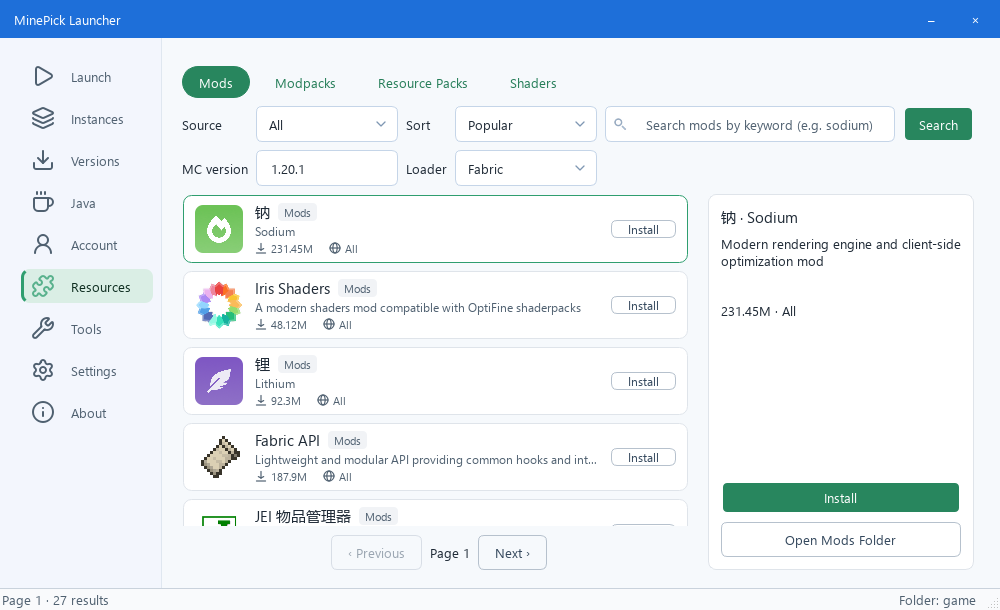
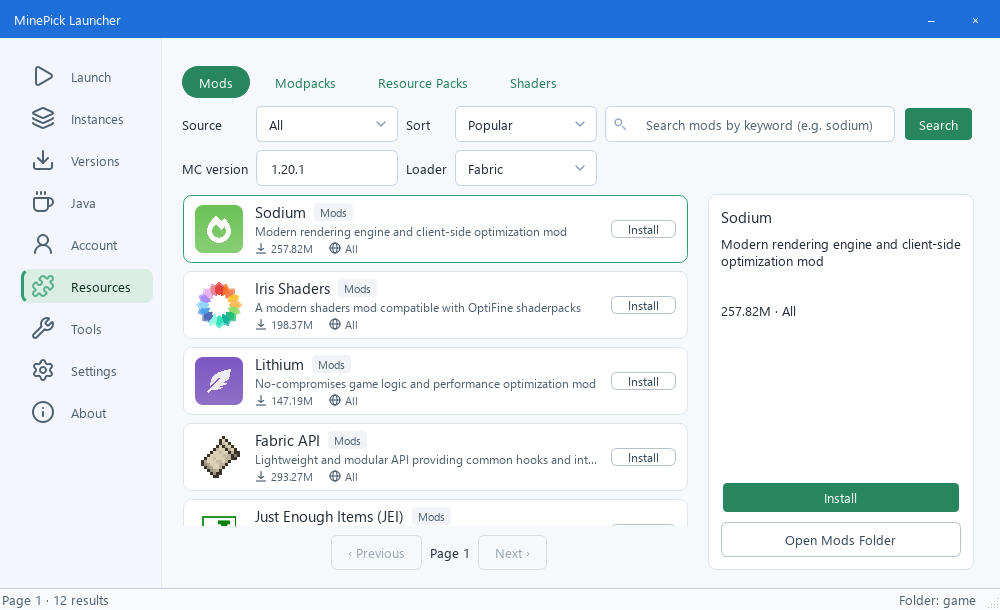
docs(screenshots): make the demo data true, and re-render the two pages it changed
Every fact a published picture shows was checked against its source:

* versions: `26w02a` never shipped - Mojang's manifest has no such id. The snapshot released on the
  demo's own date (2026-01-13) is `26.1-snapshot-3`, which is what the row and the latest-snapshot
  card say now. Twelve of the other dates were wrong too (1.21.10 showed 2025-11-25, the manifest
  says 2025-10-07), checked one by one against
  `piston-meta.mojang.com/mc/game/version_manifest_v2.json`.
* resources: the demo slug `roughly-enough-items` returns 404; the project is `rei`. JEI's title is
  `Just Enough Items (JEI)`, not the shorter form. Every download count was invented - iris showed
  48.1M against a real 198.4M, create 74.6M against 28.6M - and all twelve now carry the numbers
  `api.modrinth.com/v2/project/<slug>` returned on 2026-11-28.
* the row count read "27 results" because the source picker defaults to 全部 and the render also
  asked CurseForge for real results; the second source now answers empty, so the picture says
  "12 results" and matches the twelve rows.
* the demo instance's jar names used mod versions that do not exist for 1.21.11; they are the real
  ones now (sodium 0.8.14, lithium 0.21.4, iris 1.10.8).

Nothing here touches the product: the app reads the manifest, the search API and the profile JSONs
at runtime, so only the renderer's fixtures were ever wrong. Versions and resources are re-rendered
in zh and en; the other eighteen pictures show no value that changed.
[…]

diff --git a/tools/shot_pages.py b/tools/shot_pages.py
@@ -50,19 +50,22 @@ from pathlib import Path
 sys.dont_write_bytecode = True  # never drop __pycache__ into the tree being rendered
 
 
+#: Slugs, titles and download counts copied from ``https://api.modrinth.com/v2/project/<slug>`` on
+#: 2026-11-28. They are real values, not placeholders: the published picture shows a download count, and
+#: a made-up one is a claim about someone else\'s project. Re-read the API when the numbers age.
 FAKE_MODS = [
-    ("sodium", "Sodium", "Modern rendering engine and client-side optimization mod", 231_450_000),
-    ("iris", "Iris Shaders", "A modern shaders mod compatible with OptiFine shaderpacks", 48_120_000),
-    ("lithium", "Lithium", "No-compromises game logic and performance optimization mod", 92_300_000),
-    ("fabric-api", "Fabric API", "Lightweight and modular API providing common hooks and intercompatibility", 187_900_000),
-    ("jei", "Just Enough Items", "View items and recipes for anything in the game", 210_770_000),
-    ("modmenu", "Mod Menu", "Adds a mod menu to view the list of mods you have installed", 120_540_000),
-    ("cloth-config", "Cloth Config API", "Configuration screen API used by many fabric mods", 165_880_000),
-    ("roughly-enough-items", "Roughly Enough Items", "Recipe viewer with a modern look and feel", 61_230_000),
-    ("create", "Create", "Aesthetic technology mod with rotational power and contraptions", 74_610_000),
-    ("xaeros-minimap", "Xaero's Minimap", "Minimap with waypoints, entity radar and cave mode", 88_940_000),
-    ("appleskin", "AppleSkin", "Food-related HUD information: hunger, saturation and exhaustion", 57_330_000),
-    ("journeymap", "JourneyMap", "Real-time mapping in game or in a web browser", 69_150_000),
+    ("sodium", "Sodium", "Modern rendering engine and client-side optimization mod", 257_822_161),
+    ("iris", "Iris Shaders", "A modern shaders mod compatible with OptiFine shaderpacks", 198_369_859),
+    ("lithium", "Lithium", "No-compromises game logic and performance optimization mod", 147_188_187),
+    ("fabric-api", "Fabric API", "Lightweight and modular API providing common hooks and intercompatibility", 293_265_327),
+    ("jei", "Just Enough Items (JEI)", "View items and recipes for anything in the game", 87_373_849),
+    ("modmenu", "Mod Menu", "Adds a mod menu to view the list of mods you have installed", 164_587_827),
+    ("cloth-config", "Cloth Config API", "Configuration screen API used by many fabric mods", 189_811_037),
+    ("rei", "Roughly Enough Items (REI)", "Recipe viewer with a modern look and feel", 27_717_114),
+    ("create", "Create", "Aesthetic technology mod with rotational power and contraptions", 28_558_204),
+    ("xaeros-minimap", "Xaero's Minimap", "Minimap with waypoints, entity radar and cave mode", 122_571_996),
+    ("appleskin", "AppleSkin", "Food-related HUD information: hunger, saturation and exhaustion", 101_053_455),
+    ("journeymap", "JourneyMap", "Real-time mapping in game or in a web browser", 15_739_959),
 ]
 
 #: Real project icons for the demo rows, keyed by slug. The resource page is the only rendered page
@@ -89,7 +92,7 @@ FAKE_MOD_ICONS = {
         "5a20ed1450a0e1e79a1fe04e61bb4e5878bf1d20.png"
     ),
     "cloth-config": "https://cdn.modrinth.com/data/9s6osm5g/icon.png",
-    "roughly-enough-items": "https://cdn.modrinth.com/data/nfn13YXA/icon.png",
+    "rei": "https://cdn.modrinth.com/data/nfn13YXA/icon.png",
     "create": (
         "https://cdn.modrinth.com/data/LNytGWDc/"
         "61d716699bcf1ec42ed4926a9e1c7311be6087e2_96.webp"
@@ -111,35 +114,39 @@ ICON_WARM_CONCURRENCY = 8
 ICON_WARM_ATTEMPTS = 3
 
 
+#: Every id, type and date here is Mojang\'s (checked against
+#: ``piston-meta.mojang.com/mc/game/version_manifest_v2.json``): a picture people read must not show a
+#: version that never shipped, and a wrong date is just as visible as a wrong id. Update the set as a
+#: whole when the manifest moves - do not invent an entry to fill a gap.
 FAKE_VERSIONS = [
     ("1.21.11", "release", "2025-12-09"),
-    ("1.21.10", "release", "2025-11-25"),
-    ("1.21.9", "release", "2025-11-11"),
-    ("1.21.8", "release", "2025-09-30"),
-    ("1.21.7", "release", "2025-08-19"),
-    ("1.21.6", "release", "2025-07-15"),
-    ("1.21.5", "release", "2025-06-03"),
-    ("1.21.4", "release", "2025-03-25"),
-    ("1.21.3", "release", "2025-02-11"),
+    ("1.21.10", "release", "2025-10-07"),
+    ("1.21.9", "release", "2025-09-30"),
+    ("1.21.8", "release", "2025-07-17"),
+    ("1.21.7", "release", "2025-06-30"),
+    ("1.21.6", "release", "2025-06-17"),
+    ("1.21.5", "release", "2025-03-25"),
+    ("1.21.4", "release", "2024-12-03"),
+    ("1.21.3", "release", "2024-10-23"),
     ("1.21.1", "release", "2024-08-08"),
     ("1.21", "release", "2024-06-13"),
     ("1.20.6", "release", "2024-04-29"),
     ("1.20.4", "release", "2023-12-07"),
-    ("1.20.2", "release", "2023-09-21"),
+    ("1.20.2", "release", "2023-09-20"),
     ("1.20.1", "release", "2023-06-12"),
     ("1.19.4", "release", "2023-03-14"),
     ("1.18.2", "release", "2022-02-28"),
-    ("1.16.5", "release", "2021-01-15"),
+    ("1.16.5", "release", "2021-01-14"),
     ("1.12.2", "release", "2017-09-18"),
-    ("1.8.9", "release", "2015-12-09"),
-    ("26w02a", "snapshot", "2026-01-13"),
+    ("1.8.9", "release", "2015-12-03"),
+    ("26.1-snapshot-3", "snapshot", "2026-01-13"),
     ("25w45a", "snapshot", "2025-11-04"),
     ("24w14potato", "snapshot", "2024-04-01"),
     ("23w13a_or_b", "snapshot", "2023-04-01"),
     ("22w13oneblockatatime", "snapshot", "2022-04-01"),
     ("20w14infinite", "snapshot", "2020-04-01"),
     ("1.RV-Pre1", "snapshot", "2016-03-31"),
-    ("b1.7.3", "old_beta", "2011-07-08"),
+    ("b1.7.3", "old_beta", "2011-07-07"),
     ("a1.2.6", "old_alpha", "2010-12-02"),
 ]
 
@@ -220,7 +227,9 @@ def ensure_preview(root: Path, game_dir: Path | None = None) -> tuple[Path, Path
             ),
             encoding="utf-8",
         )
-    for jar in ("sodium-fabric-0.6.5.jar", "lithium-fabric-0.15.3.jar", "iris-fabric-1.8.1.jar"):
+    # Versions that exist for 1.21.11 (Modrinth, checked 2026-11-28); an invented jar name would only
+    # show up in a later close-up, which is exactly when nobody re-checks it.
+    for jar in ("sodium-fabric-0.8.14.jar", "lithium-fabric-0.21.4.jar", "iris-fabric-1.10.8.jar"):
         (game / "versions" / "整合包演示" / "mods" / jar).write_bytes(b"PK\x03\x04trial")
     world = game / "versions" / "生存存档" / "saves" / "新世界"
     world.mkdir(parents=True, exist_ok=True)
@@ -799,7 +808,7 @@ def main() -> int:
     from launcher.mods.models import ModSearchHit
 
     manifest = VersionManifest(
-        latest={"release": "1.21.11", "snapshot": "26w02a"},
+        latest={"release": "1.21.11", "snapshot": "26.1-snapshot-3"},
         versions=[
             ManifestVersion(
                 id=vid,
@@ -830,6 +839,12 @@ def main() -> int:
     # offline stubs so rendering never waits on the network
     versions_page.fetch_manifest = lambda cache_path=None: manifest  # type: ignore[assignment]
     mods_page.search_projects = lambda *a, **k: list(hits)  # type: ignore[assignment]
+    # The source picker defaults to 全部, so a real render also asked CurseForge and the row count became
+    # "12 Modrinth + N real CurseForge" - a number the picture cannot explain and the network decides.
+    # The rendered list is the Modrinth set, so the second source answers empty here.
+    from launcher.mods import curseforge as _curseforge
+
+    _curseforge.search_projects = lambda *a, **k: []  # type: ignore[assignment]
     java_page.list_java = lambda *a, **k: []  # type: ignore[assignment]
 
     from gui.main import create_app
